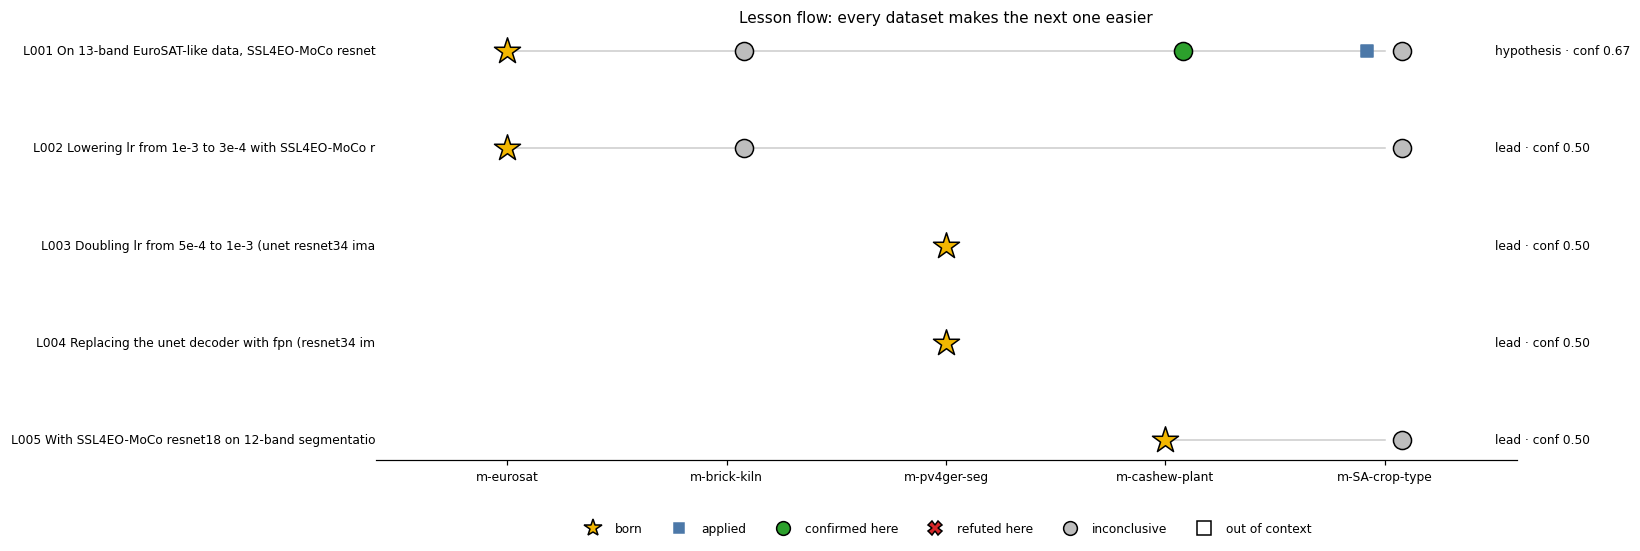
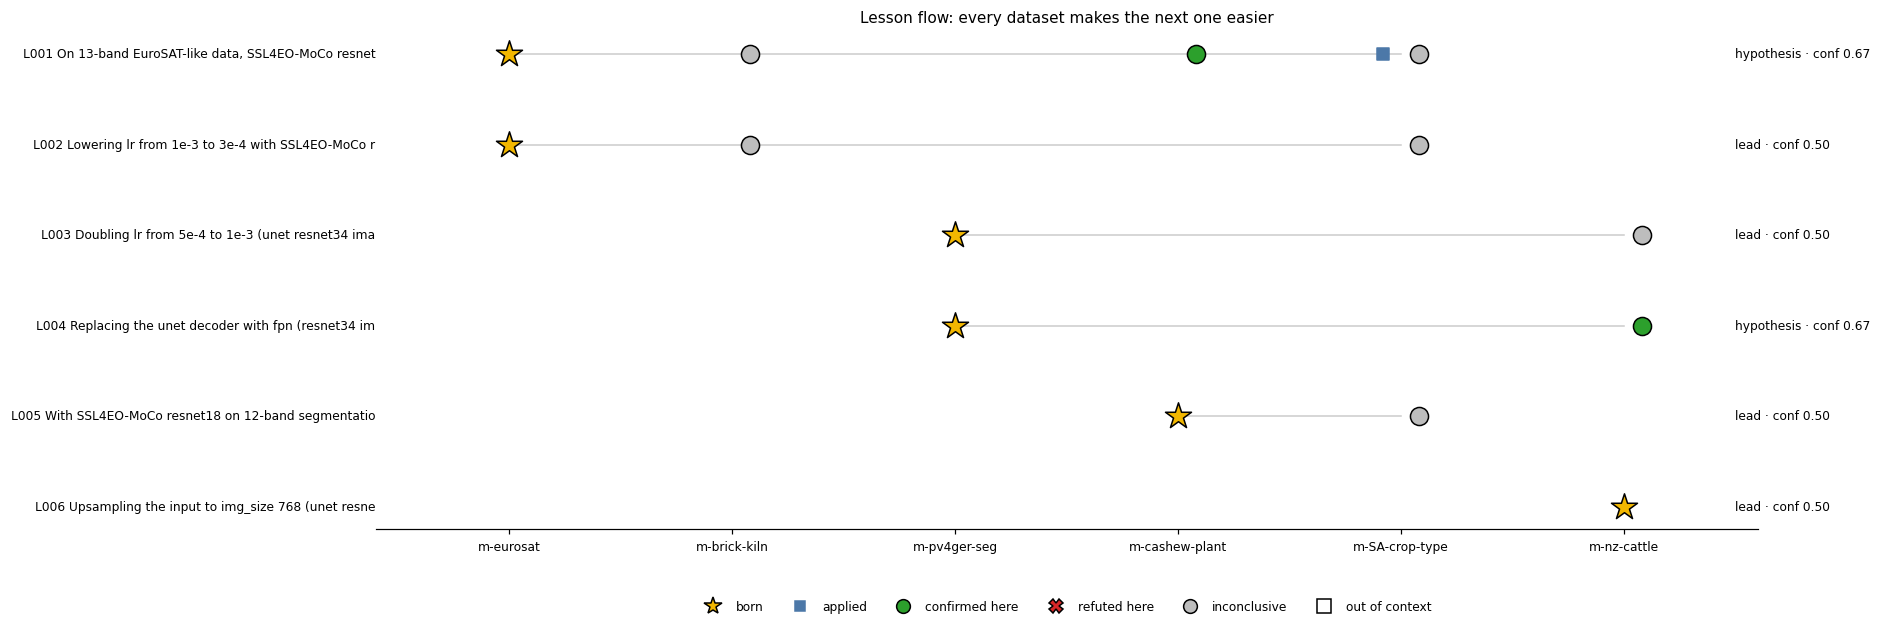
publish: m-nz-cattle (registry, model card, report)

diff --git a/report/dashboard.html b/report/dashboard.html
@@ -3,13 +3,13 @@
 <h1>GoTrain: every dataset makes the next one easier</h1>
 <p class='note'>Generated by <code>python -m gotrain.report</code> from the ledger, vault, sessions, playbook and stats files. Test scores come from the vault (one test evaluation per dataset); intervals are 95% grouped bootstrap intervals from the hash-checked test_stats.npz.</p>
 <h2>Results</h2>
-<table><tr><th>Task</th><th>Model</th><th>Val</th><th>Test (95% interval)</th><th>GEO-Bench reference</th><th>GPU-min L1 / L2</th><th>Tokens</th><th>Lessons born / applied</th><th>Notes</th></tr><tr><td>m-eurosat</td><td>m-eurosat-L2-006 (composite)</td><td>98.90%</td><td>98.60% (97.80%–99.30%, 1000 groups)</td><td>98.00% (not comparable: bands differ (3-channel reference, we use 13); benchmark classification v0.8.5 vs our v1.0)</td><td>40.8 / 6.3</td><td>208,496</td><td>2 / 0</td><td>INC-001 disclosed</td></tr><tr><td>m-brick-kiln</td><td>m-brick-kiln-L2-004 (composite)</td><td>99.30%</td><td>98.60% (97.80%–99.30%, 999 groups)</td><td>98.87% (not comparable: bands differ (3-channel reference, we use 10); benchmark classification v0.8.5 vs our v1.0)</td><td>40.8 / 6.2</td><td>188,252</td><td>0 / 0</td><td></td></tr><tr><td>m-pv4ger-seg</td><td>m-pv4ger-seg-L2-002 (composite)</td><td>0.9556</td><td>0.9505 (0.9418–0.9579, 403 groups)</td><td>0.9408 (roughly comparable: benchmark segmentation v0.4 vs our v1.0)</td><td>40.7 / 7.5</td><td>188,292</td><td>2 / 0</td><td></td></tr><tr><td>m-cashew-plant</td><td>m-cashew-plant-L2-004 (composite)</td><td>0.8729</td><td>0.8729 (0.8709–0.8755, 2 groups)</td><td>0.4873 (not comparable: bands differ (3-channel reference, we use 12); benchmark segmentation v0.4 vs our v1.0; class 0 (&#x27;no data&#x27;) ignored by us, counted by the reference)</td><td>40.6 / 7.2</td><td>203,781</td><td>1 / 0</td><td></td></tr><tr><td>m-SA-crop-type</td><td>—</td><td>—</td><td>not finalized</td><td>0.3041 (not comparable: bands differ (3-channel reference, we use 12); benchmark segmentation v0.4 vs our v1.0; class 0 (&#x27;no data&#x27;) ignored by us, counted by the reference)</td><td>39.7 / 8.6</td><td>199,328</td><td>0 / 1</td><td>INC-002 disclosed</td></tr></table>
+<table><tr><th>Task</th><th>Model</th><th>Val</th><th>Test (95% interval)</th><th>GEO-Bench reference</th><th>GPU-min L1 / L2</th><th>Tokens</th><th>Lessons born / applied</th><th>Notes</th></tr><tr><td>m-eurosat</td><td>m-eurosat-L2-006 (composite)</td><td>98.90%</td><td>98.60% (97.80%–99.30%, 1000 groups)</td><td>98.00% (not comparable: bands differ (3-channel reference, we use 13); benchmark classification v0.8.5 vs our v1.0)</td><td>40.8 / 6.3</td><td>208,496</td><td>2 / 0</td><td>INC-001 disclosed</td></tr><tr><td>m-brick-kiln</td><td>m-brick-kiln-L2-004 (composite)</td><td>99.30%</td><td>98.60% (97.80%–99.30%, 999 groups)</td><td>98.87% (not comparable: bands differ (3-channel reference, we use 10); benchmark classification v0.8.5 vs our v1.0)</td><td>40.8 / 6.2</td><td>188,252</td><td>0 / 0</td><td></td></tr><tr><td>m-pv4ger-seg</td><td>m-pv4ger-seg-L2-002 (composite)</td><td>0.9556</td><td>0.9505 (0.9418–0.9579, 403 groups)</td><td>0.9408 (roughly comparable: benchmark segmentation v0.4 vs our v1.0)</td><td>40.7 / 7.5</td><td>188,292</td><td>2 / 0</td><td></td></tr><tr><td>m-cashew-plant</td><td>m-cashew-plant-L2-004 (composite)</td><td>0.8729</td><td>0.8729 (0.8709–0.8755, 2 groups)</td><td>0.4873 (not comparable: bands differ (3-channel reference, we use 12); benchmark segmentation v0.4 vs our v1.0; class 0 (&#x27;no data&#x27;) ignored by us, counted by the reference)</td><td>40.6 / 7.2</td><td>203,781</td><td>1 / 0</td><td></td></tr><tr><td>m-SA-crop-type</td><td>—</td><td>—</td><td>not finalized</td><td>0.3041 (not comparable: bands differ (3-channel reference, we use 12); benchmark segmentation v0.4 vs our v1.0; class 0 (&#x27;no data&#x27;) ignored by us, counted by the reference)</td><td>39.7 / 8.6</td><td>199,328</td><td>0 / 1</td><td>INC-002 disclosed</td></tr><tr><td>m-nz-cattle</td><td>m-nz-cattle-L2-004 (composite)</td><td>0.8583</td><td>0.8531 (0.8450–0.8615, 63 groups)</td><td>0.8107 (roughly comparable: benchmark segmentation v0.4 vs our v1.0)</td><td>40.8 / 6.7</td><td>249,161</td><td>1 / 0</td><td></td></tr></table>
 <h2>Lesson flow</h2>
 <img src='lesson_flow.png' alt='lesson flow'>
 <h2>With vs without playbook (m-SA-crop-type)</h2>
 <img src='ab_m-SA-crop-type.png'>
 <h2>Level 2</h2>
-<table><tr><th>Task</th><th>Run</th><th>Mechanism</th><th>Members</th><th>Val</th><th>Promoted</th></tr><tr><td>m-eurosat</td><td>m-eurosat-0015</td><td>trained slot</td><td>m-eurosat-0010</td><td>98.80%</td><td>no</td></tr><tr><td>m-eurosat</td><td>m-eurosat-L2-001</td><td>tta</td><td>m-eurosat-0010 +TTA</td><td>98.90%</td><td>no</td></tr><tr><td>m-eurosat</td><td>m-eurosat-L2-002</td><td>tta</td><td>m-eurosat-0008 +TTA</td><td>98.60%</td><td>no</td></tr><tr><td>m-eurosat</td><td>m-eurosat-L2-003</td><td>tta</td><td>m-eurosat-0009 +TTA</td><td>98.70%</td><td>no</td></tr><tr><td>m-eurosat</td><td>m-eurosat-L2-004</td><td>ensemble</td><td>m-eurosat-0010, m-eurosat-0008, m-eurosat-0009</td><td>98.70%</td><td>no</td></tr><tr><td>m-eurosat</td><td>m-eurosat-L2-006</td><td>ensemble</td><td>m-eurosat-0010, m-eurosat-0008, m-eurosat-0009, m-eurosat-0015</td><td>98.90%</td><td>yes</td></tr><tr><td>m-brick-kiln</td><td>m-brick-kiln-0012</td><td>trained slot</td><td>m-brick-kiln-0005</td><td>99.30%</td><td>no</td></tr><tr><td>m-brick-kiln</td><td>m-brick-kiln-L2-001</td><td>tta</td><td>m-brick-kiln-0005 +TTA</td><td>99.20%</td><td>no</td></tr><tr><td>m-brick-kiln</td><td>m-brick-kiln-L2-002</td><td>tta</td><td>m-brick-kiln-0007 +TTA</td><td>99.10%</td><td>no</td></tr><tr><td>m-brick-kiln</td><td>m-brick-kiln-L2-003</td><td>tta</td><td>m-brick-kiln-0008 +TTA</td><td>99.20%</td><td>no</td></tr><tr><td>m-brick-kiln</td><td>m-brick-kiln-L2-004</td><td>ensemble</td><td>m-brick-kiln-0005, m-brick-kiln-0007, m-brick-kiln-0008</td><td>99.30%</td><td>yes</td></tr><tr><td>m-brick-kiln</td><td>m-brick-kiln-L2-006</td><td>ensemble</td><td>m-brick-kiln-0005, m-brick-kiln-0007, m-brick-kiln-0008, m-brick-kiln-0012</td><td>99.30%</td><td>no</td></tr><tr><td>m-pv4ger-seg</td><td>m-pv4ger-seg-0012</td><td>trained slot</td><td>m-pv4ger-seg-0004</td><td>0.9506</td><td>no</td></tr><tr><td>m-pv4ger-seg</td><td>m-pv4ger-seg-L2-001</td><td>tta</td><td>m-pv4ger-seg-0004 +TTA</td><td>0.9552</td><td>no</td></tr><tr><td>m-pv4ger-seg</td><td>m-pv4ger-seg-L2-002</td><td>tta</td><td>m-pv4ger-seg-0002 +TTA</td><td>0.9556</td><td>yes</td></tr><tr><td>m-pv4ger-seg</td><td>m-pv4ger-seg-L2-003</td><td>tta</td><td>m-pv4ger-seg-0005 +TTA</td><td>0.9531</td><td>no</td></tr><tr><td>m-pv4ger-seg</td><td>m-pv4ger-seg-L2-004</td><td>ensemble</td><td>m-pv4ger-seg-0004 +TTA, m-pv4ger-seg-0002 +TTA, m-pv4ger-seg-0005 +TTA</td><td>0.9556</td><td>no</td></tr><tr><td>m-pv4ger-seg</td><td>m-pv4ger-seg-L2-006</td><td>ensemble</td><td>m-pv4ger-seg-0004 +TTA, m-pv4ger-seg-0002 +TTA, m-pv4ger-seg-0005 +TTA, m-pv4ger-seg-0012</td><td>0.9546</td><td>no</td></tr><tr><td>m-cashew-plant</td><td>m-cashew-plant-0012</td><td>trained slot</td><td>m-cashew-plant-0008</td><td>0.8473</td><td>no</td></tr><tr><td>m-cashew-plant</td><td>m-cashew-plant-L2-001</td><td>tta</td><td>m-cashew-plant-0008 +TTA</td><td>0.8730</td><td>no</td></tr><tr><td>m-cashew-plant</td><td>m-cashew-plant-L2-002</td><td>tta</td><td>m-cashew-plant-0005 +TTA</td><td>0.8694</td><td>no</td></tr><tr><td>m-cashew-plant</td><td>m-cashew-plant-L2-003</td><td>tta</td><td>m-cashew-plant-0006 +TTA</td><td>0.8602</td><td>no</td></tr><tr><td>m-cashew-plant</td><td>m-cashew-plant-L2-004</td><td>ensemble</td><td>m-cashew-plant-0008 +TTA, m-cashew-plant-0005 +TTA, m-cashew-plant-0006 +TTA</td><td>0.8729</td><td>yes</td></tr><tr><td>m-cashew-plant</td><td>m-cashew-plant-L2-006</td><td>ensemble</td><td>m-cashew-plant-0008 +TTA, m-cashew-plant-0005 +TTA, m-cashew-plant-0006 +TTA, m-cashew-plant-0012</td><td>0.8726</td><td>no</td></tr><tr><td>m-SA-crop-type</td><td>m-SA-crop-type-0012</td><td>trained slot</td><td>m-SA-crop-type-0007</td><td>0.4002</td><td>no</td></tr><tr><td>m-SA-crop-type</td><td>m-SA-crop-type-L2-001</td><td>tta</td><td>m-SA-crop-type-0007 +TTA</td><td>0.4094</td><td>no</td></tr><tr><td>m-SA-crop-type</td><td>m-SA-crop-type-L2-002</td><td>tta</td><td>m-SA-crop-type-0006 +TTA</td><td>0.3971</td><td>no</td></tr><tr><td>m-SA-crop-type</td><td>m-SA-crop-type-L2-003</td><td>tta</td><td>m-SA-crop-type-0001 +TTA</td><td>0.3891</td><td>yes</td></tr><tr><td>m-SA-crop-type</td><td>m-SA-crop-type-L2-004</td><td>ensemble</td><td>m-SA-crop-type-0007 +TTA, m-SA-crop-type-0006 +TTA, m-SA-crop-type-0001 +TTA</td><td>0.4105</td><td>yes</td></tr><tr><td>m-SA-crop-type</td><td>m-SA-crop-type-L2-006</td><td>ensemble</td><td>m-SA-crop-type-0007 +TTA, m-SA-crop-type-0006 +TTA, m-SA-crop-type-0001 +TTA, m-SA-crop-type-0012</td><td>0.4145</td><td>yes</td></tr></table>
+<table><tr><th>Task</th><th>Run</th><th>Mechanism</th><th>Members</th><th>Val</th><th>Promoted</th></tr><tr><td>m-eurosat</td><td>m-eurosat-0015</td><td>trained slot</td><td>m-eurosat-0010</td><td>98.80%</td><td>no</td></tr><tr><td>m-eurosat</td><td>m-eurosat-L2-001</td><td>tta</td><td>m-eurosat-0010 +TTA</td><td>98.90%</td><td>no</td></tr><tr><td>m-eurosat</td><td>m-eurosat-L2-002</td><td>tta</td><td>m-eurosat-0008 +TTA</td><td>98.60%</td><td>no</td></tr><tr><td>m-eurosat</td><td>m-eurosat-L2-003</td><td>tta</td><td>m-eurosat-0009 +TTA</td><td>98.70%</td><td>no</td></tr><tr><td>m-eurosat</td><td>m-eurosat-L2-004</td><td>ensemble</td><td>m-eurosat-0010, m-eurosat-0008, m-eurosat-0009</td><td>98.70%</td><td>no</td></tr><tr><td>m-eurosat</td><td>m-eurosat-L2-006</td><td>ensemble</td><td>m-eurosat-0010, m-eurosat-0008, m-eurosat-0009, m-eurosat-0015</td><td>98.90%</td><td>yes</td></tr><tr><td>m-brick-kiln</td><td>m-brick-kiln-0012</td><td>trained slot</td><td>m-brick-kiln-0005</td><td>99.30%</td><td>no</td></tr><tr><td>m-brick-kiln</td><td>m-brick-kiln-L2-001</td><td>tta</td><td>m-brick-kiln-0005 +TTA</td><td>99.20%</td><td>no</td></tr><tr><td>m-brick-kiln</td><td>m-brick-kiln-L2-002</td><td>tta</td><td>m-brick-kiln-0007 +TTA</td><td>99.10%</td><td>no</td></tr><tr><td>m-brick-kiln</td><td>m-brick-kiln-L2-003</td><td>tta</td><td>m-brick-kiln-0008 +TTA</td><td>99.20%</td><td>no</td></tr><tr><td>m-brick-kiln</td><td>m-brick-kiln-L2-004</td><td>ensemble</td><td>m-brick-kiln-0005, m-brick-kiln-0007, m-brick-kiln-0008</td><td>99.30%</td><td>yes</td></tr><tr><td>m-brick-kiln</td><td>m-brick-kiln-L2-006</td><td>ensemble</td><td>m-brick-kiln-0005, m-brick-kiln-0007, m-brick-kiln-0008, m-brick-kiln-0012</td><td>99.30%</td><td>no</td></tr><tr><td>m-pv4ger-seg</td><td>m-pv4ger-seg-0012</td><td>trained slot</td><td>m-pv4ger-seg-0004</td><td>0.9506</td><td>no</td></tr><tr><td>m-pv4ger-seg</td><td>m-pv4ger-seg-L2-001</td><td>tta</td><td>m-pv4ger-seg-0004 +TTA</td><td>0.9552</td><td>no</td></tr><tr><td>m-pv4ger-seg</td><td>m-pv4ger-seg-L2-002</td><td>tta</td><td>m-pv4ger-seg-0002 +TTA</td><td>0.9556</td><td>yes</td></tr><tr><td>m-pv4ger-seg</td><td>m-pv4ger-seg-L2-003</td><td>tta</td><td>m-pv4ger-seg-0005 +TTA</td><td>0.9531</td><td>no</td></tr><tr><td>m-pv4ger-seg</td><td>m-pv4ger-seg-L2-004</td><td>ensemble</td><td>m-pv4ger-seg-0004 +TTA, m-pv4ger-seg-0002 +TTA, m-pv4ger-seg-0005 +TTA</td><td>0.9556</td><td>no</td></tr><tr><td>m-pv4ger-seg</td><td>m-pv4ger-seg-L2-006</td><td>ensemble</td><td>m-pv4ger-seg-0004 +TTA, m-pv4ger-seg-0002 +TTA, m-pv4ger-seg-0005 +TTA, m-pv4ger-seg-0012</td><td>0.9546</td><td>no</td></tr><tr><td>m-cashew-plant</td><td>m-cashew-plant-0012</td><td>trained slot</td><td>m-cashew-plant-0008</td><td>0.8473</td><td>no</td></tr><tr><td>m-cashew-plant</td><td>m-cashew-plant-L2-001</td><td>tta</td><td>m-cashew-plant-0008 +TTA</td><td>0.8730</td><td>no</td></tr><tr><td>m-cashew-plant</td><td>m-cashew-plant-L2-002</td><td>tta</td><td>m-cashew-plant-0005 +TTA</td><td>0.8694</td><td>no</td></tr><tr><td>m-cashew-plant</td><td>m-cashew-plant-L2-003</td><td>tta</td><td>m-cashew-plant-0006 +TTA</td><td>0.8602</td><td>no</td></tr><tr><td>m-cashew-plant</td><td>m-cashew-plant-L2-004</td><td>ensemble</td><td>m-cashew-plant-0008 +TTA, m-cashew-plant-0005 +TTA, m-cashew-plant-0006 +TTA</td><td>0.8729</td><td>yes</td></tr><tr><td>m-cashew-plant</td><td>m-cashew-plant-L2-006</td><td>ensemble</td><td>m-cashew-plant-0008 +TTA, m-cashew-plant-0005 +TTA, m-cashew-plant-0006 +TTA, m-cashew-plant-0012</td><td>0.8726</td><td>no</td></tr><tr><td>m-SA-crop-type</td><td>m-SA-crop-type-0012</td><td>trained slot</td><td>m-SA-crop-type-0007</td><td>0.4002</td><td>no</td></tr><tr><td>m-SA-crop-type</td><td>m-SA-crop-type-L2-001</td><td>tta</td><td>m-SA-crop-type-0007 +TTA</td><td>0.4094</td><td>no</td></tr><tr><td>m-SA-crop-type</td><td>m-SA-crop-type-L2-002</td><td>tta</td><td>m-SA-crop-type-0006 +TTA</td><td>0.3971</td><td>no</td></tr><tr><td>m-SA-crop-type</td><td>m-SA-crop-type-L2-003</td><td>tta</td><td>m-SA-crop-type-0001 +TTA</td><td>0.3891</td><td>yes</td></tr><tr><td>m-SA-crop-type</td><td>m-SA-crop-type-L2-004</td><td>ensemble</td><td>m-SA-crop-type-0007 +TTA, m-SA-crop-type-0006 +TTA, m-SA-crop-type-0001 +TTA</td><td>0.4105</td><td>yes</td></tr><tr><td>m-SA-crop-type</td><td>m-SA-crop-type-L2-006</td><td>ensemble</td><td>m-SA-crop-type-0007 +TTA, m-SA-crop-type-0006 +TTA, m-SA-crop-type-0001 +TTA, m-SA-crop-type-0012</td><td>0.4145</td><td>yes</td></tr><tr><td>m-nz-cattle</td><td>m-nz-cattle-0012</td><td>trained slot</td><td>m-nz-cattle-0006</td><td>0.8556</td><td>no</td></tr><tr><td>m-nz-cattle</td><td>m-nz-cattle-L2-001</td><td>tta</td><td>m-nz-cattle-0006 +TTA</td><td>0.8579</td><td>no</td></tr><tr><td>m-nz-cattle</td><td>m-nz-cattle-L2-002</td><td>tta</td><td>m-nz-cattle-0005 +TTA</td><td>0.8568</td><td>no</td></tr><tr><td>m-nz-cattle</td><td>m-nz-cattle-L2-003</td><td>tta</td><td>m-nz-cattle-0001 +TTA</td><td>0.8558</td><td>yes</td></tr><tr><td>m-nz-cattle</td><td>m-nz-cattle-L2-004</td><td>ensemble</td><td>m-nz-cattle-0006 +TTA, m-nz-cattle-0005 +TTA, m-nz-cattle-0001 +TTA</td><td>0.8583</td><td>yes</td></tr><tr><td>m-nz-cattle</td><td>m-nz-cattle-L2-006</td><td>ensemble</td><td>m-nz-cattle-0006 +TTA, m-nz-cattle-0005 +TTA, m-nz-cattle-0001 +TTA, m-nz-cattle-0012</td><td>0.8581</td><td>no</td></tr></table>
 <h2>Sentinel audit</h2>
 <p>No flags.</p>
 <h2>Run trees</h2>
@@ -18,4 +18,5 @@
 <img src='trees/m-pv4ger-seg__main__chain.png' alt='m-pv4ger-seg__main__chain'>
 <img src='trees/m-cashew-plant__main__chain.png' alt='m-cashew-plant__main__chain'>
 <img src='trees/m-SA-crop-type__main__chain.png' alt='m-SA-crop-type__main__chain'>
+<img src='trees/m-nz-cattle__main__chain.png' alt='m-nz-cattle__main__chain'>
 </body></html>

diff --git a/workspace/model_cards/m-nz-cattle.md b/workspace/model_cards/m-nz-cattle.md
@@ -1,0 +1,32 @@
+# Model card: m-nz-cattle:v1 (m-nz-cattle)
+
+Tag **production** · registered 2026-11-01T12:22:36Z · written by `gotrain.model_card` from the ledger, vault and session records (no hand-written numbers).
+
+## Task
+
+- Type: segmentation; scope: aerial-rgb, rgb, <=1m.
+- Input bands: R, G, B
+- Classes: no cattle, cattle
+- Data note: Masks are radius-6 px boxes around point labels. About half the images have a shifted twin; 50 val locations also occur in train (GEO-Bench split), grouped by location in the bootstrap.
+
+## Model
+
+- Run: `m-nz-cattle-L2-004` (composite, ensemble); checkpoint `sha256:21182aee4262fceeb683dbbbfee9685b6541902db71e4cbe08f74db4d5020b80`.
+- Members: `m-nz-cattle-0006` + TTA (sha256:5e5f3dba320875501a64f56f7b1355e308d8b25a668e051bb1678f17b480a6d2); `m-nz-cattle-0005` + TTA (sha256:e63dd115c7e66e2aa9b24f8d888f378e548ee2bbeba5846736db3c599ef81f2e); `m-nz-cattle-0001` + TTA (sha256:85694f11f73f76be4e8f340158faa81d71ad3da25cfc5b206d9c818a25d4e9bc)
+- Derived from: `m-nz-cattle-0006`, `m-nz-cattle-0005`, `m-nz-cattle-0001`.
+
+## Scores
+
+- Validation miou: **0.8583** (val_stats.npz).
+- Test miou: **0.8531**, 95% interval 0.8450 to 0.8615 (63 groups, 10000 grouped bootstrap resamples, seed 0); one test evaluation, without TTA, finalized 2026-11-01T12:20:51Z.
+- Vault entry `sha256:a50d655f918980c777f009a11c68343656a8892a17ee35d52269d6dbfad9eb7a`; test_stats.npz `sha256:ccaa19c017d5d1725fcb6bd0faeacf76132a8dc9e0981718d0f369331a609f40`.
+- GEO-Bench reference: 0.8107 (ResNet50-U-Net-timm, 12 seeds, 1.00x train). **roughly comparable: benchmark segmentation v0.4 vs our v1.0**.
+
+## How it was found
+
+- Session `m-nz-cattle__main__chain` (arm main), LLM `eu.anthropic.claude-sonnet-5-5`, B = 60.0 GPU-min (R = 6.0), code tree `95b096ec568d3f51e12153f8054c8ce5d379600d`, prompt `sha256:dcdb7392d5ca2d57d65e6fb7a0e3482b73447ae28f8a0648290eb0ed9191a4b1`.
+- GPU minutes charged: Level 1 40.8, Level 2 6.7; runs: 13; seed sigma 0.0005; 249,161 Bedrock tokens.
+- Playbook at the start: applied none; buckets {'apply': 0, 'other_context': 0, 'to_test': 2, 'avoid': 0, 'hidden': 3}.
+- Lesson tests: L003 inconclusive (z -1.87); L004 confirm (z +4.11).
+- Lessons written here (z in the lesson's own direction):
+  - L006 (lead, z +1.09): Upsampling the input to img_size 768 (unet resnet18 imagenet) gave a marginal gain in val miou, about +0.001, with no extra time cost under the cap. It is a weak lead for tiny-object aerial imagery. Test it again before relying on it.

diff --git a/workspace/model_cards/m-nz-cattle__v1.md b/workspace/model_cards/m-nz-cattle__v1.md
@@ -1,0 +1,32 @@
+# Model card: m-nz-cattle:v1 (m-nz-cattle)
+
+Tag **production** · registered 2026-11-01T12:22:36Z · written by `gotrain.model_card` from the ledger, vault and session records (no hand-written numbers).
+
+## Task
+
+- Type: segmentation; scope: aerial-rgb, rgb, <=1m.
+- Input bands: R, G, B
+- Classes: no cattle, cattle
+- Data note: Masks are radius-6 px boxes around point labels. About half the images have a shifted twin; 50 val locations also occur in train (GEO-Bench split), grouped by location in the bootstrap.
+
+## Model
+
+- Run: `m-nz-cattle-L2-004` (composite, ensemble); checkpoint `sha256:21182aee4262fceeb683dbbbfee9685b6541902db71e4cbe08f74db4d5020b80`.
+- Members: `m-nz-cattle-0006` + TTA (sha256:5e5f3dba320875501a64f56f7b1355e308d8b25a668e051bb1678f17b480a6d2); `m-nz-cattle-0005` + TTA (sha256:e63dd115c7e66e2aa9b24f8d888f378e548ee2bbeba5846736db3c599ef81f2e); `m-nz-cattle-0001` + TTA (sha256:85694f11f73f76be4e8f340158faa81d71ad3da25cfc5b206d9c818a25d4e9bc)
+- Derived from: `m-nz-cattle-0006`, `m-nz-cattle-0005`, `m-nz-cattle-0001`.
+
+## Scores
+
+- Validation miou: **0.8583** (val_stats.npz).
+- Test miou: **0.8531**, 95% interval 0.8450 to 0.8615 (63 groups, 10000 grouped bootstrap resamples, seed 0); one test evaluation, without TTA, finalized 2026-11-01T12:20:51Z.
+- Vault entry `sha256:a50d655f918980c777f009a11c68343656a8892a17ee35d52269d6dbfad9eb7a`; test_stats.npz `sha256:ccaa19c017d5d1725fcb6bd0faeacf76132a8dc9e0981718d0f369331a609f40`.
+- GEO-Bench reference: 0.8107 (ResNet50-U-Net-timm, 12 seeds, 1.00x train). **roughly comparable: benchmark segmentation v0.4 vs our v1.0**.
+
+## How it was found
+
+- Session `m-nz-cattle__main__chain` (arm main), LLM `eu.anthropic.claude-sonnet-5-5`, B = 60.0 GPU-min (R = 6.0), code tree `95b096ec568d3f51e12153f8054c8ce5d379600d`, prompt `sha256:dcdb7392d5ca2d57d65e6fb7a0e3482b73447ae28f8a0648290eb0ed9191a4b1`.
+- GPU minutes charged: Level 1 40.8, Level 2 6.7; runs: 13; seed sigma 0.0005; 249,161 Bedrock tokens.
+- Playbook at the start: applied none; buckets {'apply': 0, 'other_context': 0, 'to_test': 2, 'avoid': 0, 'hidden': 3}.
+- Lesson tests: L003 inconclusive (z -1.87); L004 confirm (z +4.11).
+- Lessons written here (z in the lesson's own direction):
+  - L006 (lead, z +1.09): Upsampling the input to img_size 768 (unet resnet18 imagenet) gave a marginal gain in val miou, about +0.001, with no extra time cost under the cap. It is a weak lead for tiny-object aerial imagery. Test it again before relying on it.

diff --git a/workspace/model_cards/m-pv4ger-seg.md b/workspace/model_cards/m-pv4ger-seg.md
@@ -28,4 +28,4 @@ Tag **production** · registered 2026-11-01T06:35:52Z · written by `gotrain.mod
 - Playbook at the start: applied none; buckets {'apply': 0, 'other_context': 0, 'to_test': 0, 'avoid': 0, 'hidden': 2}.
 - Lessons written here (z in the lesson's own direction):
   - L003 (lead, z +1.31): Doubling lr from 5e-4 to 1e-3 (unet resnet34 imagenet, ~10 epochs, short budget) slightly lowered val miou; faster convergence did not materialize, probably because the higher lr is noisier. Keep lr near 5e-4 for fine-tuning; a weak lead only.
-  - L004 (lead, z +1.22): Replacing the unet decoder with fpn (resnet34 imagenet) slightly lowered val miou, and it did not save wall time within the cap. Prefer unet for high-resolution aerial segmentation where fine boundaries matter; a weak lead only.
+  - L004 (hypothesis, z +1.22): Replacing the unet decoder with fpn (resnet34 imagenet) slightly lowered val miou, and it did not save wall time within the cap. Prefer unet for high-resolution aerial segmentation where fine boundaries matter; a weak lead only.

diff --git a/workspace/model_cards/m-pv4ger-seg__v1.md b/workspace/model_cards/m-pv4ger-seg__v1.md
@@ -28,4 +28,4 @@ Tag **production** · registered 2026-11-01T06:35:52Z · written by `gotrain.mod
 - Playbook at the start: applied none; buckets {'apply': 0, 'other_context': 0, 'to_test': 0, 'avoid': 0, 'hidden': 2}.
 - Lessons written here (z in the lesson's own direction):
   - L003 (lead, z +1.31): Doubling lr from 5e-4 to 1e-3 (unet resnet34 imagenet, ~10 epochs, short budget) slightly lowered val miou; faster convergence did not materialize, probably because the higher lr is noisier. Keep lr near 5e-4 for fine-tuning; a weak lead only.
-  - L004 (lead, z +1.22): Replacing the unet decoder with fpn (resnet34 imagenet) slightly lowered val miou, and it did not save wall time within the cap. Prefer unet for high-resolution aerial segmentation where fine boundaries matter; a weak lead only.
+  - L004 (hypothesis, z +1.22): Replacing the unet decoder with fpn (resnet34 imagenet) slightly lowered val miou, and it did not save wall time within the cap. Prefer unet for high-resolution aerial segmentation where fine boundaries matter; a weak lead only.

diff --git a/report/level2.md b/report/level2.md
@@ -30,3 +30,9 @@
 | m-SA-crop-type | m-SA-crop-type-L2-003 | tta | m-SA-crop-type-0001 +TTA | 0.3891 | yes |
 | m-SA-crop-type | m-SA-crop-type-L2-004 | ensemble | m-SA-crop-type-0007 +TTA, m-SA-crop-type-0006 +TTA, m-SA-crop-type-0001 +TTA | 0.4105 | yes |
 | m-SA-crop-type | m-SA-crop-type-L2-006 | ensemble | m-SA-crop-type-0007 +TTA, m-SA-crop-type-0006 +TTA, m-SA-crop-type-0001 +TTA, m-SA-crop-type-0012 | 0.4145 | yes |
+| m-nz-cattle | m-nz-cattle-0012 | trained slot | m-nz-cattle-0006 | 0.8556 | no |
+| m-nz-cattle | m-nz-cattle-L2-001 | tta | m-nz-cattle-0006 +TTA | 0.8579 | no |
+| m-nz-cattle | m-nz-cattle-L2-002 | tta | m-nz-cattle-0005 +TTA | 0.8568 | no |
+| m-nz-cattle | m-nz-cattle-L2-003 | tta | m-nz-cattle-0001 +TTA | 0.8558 | yes |
+| m-nz-cattle | m-nz-cattle-L2-004 | ensemble | m-nz-cattle-0006 +TTA, m-nz-cattle-0005 +TTA, m-nz-cattle-0001 +TTA | 0.8583 | yes |
+| m-nz-cattle | m-nz-cattle-L2-006 | ensemble | m-nz-cattle-0006 +TTA, m-nz-cattle-0005 +TTA, m-nz-cattle-0001 +TTA, m-nz-cattle-0012 | 0.8581 | no |

diff --git a/report/results.md b/report/results.md
@@ -5,3 +5,4 @@
 | m-pv4ger-seg | m-pv4ger-seg-L2-002 (composite) | 0.9556 | 0.9505 (0.9418–0.9579, 403 groups) | 0.9408 (roughly comparable: benchmark segmentation v0.4 vs our v1.0) | 40.7 / 7.5 | 188,292 | 2 / 0 |  |
 | m-cashew-plant | m-cashew-plant-L2-004 (composite) | 0.8729 | 0.8729 (0.8709–0.8755, 2 groups) | 0.4873 (not comparable: bands differ (3-channel reference, we use 12); benchmark segmentation v0.4 vs our v1.0; class 0 ('no data') ignored by us, counted by the reference) | 40.6 / 7.2 | 203,781 | 1 / 0 |  |
 | m-SA-crop-type | — | — | not finalized | 0.3041 (not comparable: bands differ (3-channel reference, we use 12); benchmark segmentation v0.4 vs our v1.0; class 0 ('no data') ignored by us, counted by the reference) | 39.7 / 8.6 | 199,328 | 0 / 1 | INC-002 disclosed |
+| m-nz-cattle | m-nz-cattle-L2-004 (composite) | 0.8583 | 0.8531 (0.8450–0.8615, 63 groups) | 0.8107 (roughly comparable: benchmark segmentation v0.4 vs our v1.0) | 40.8 / 6.7 | 249,161 | 1 / 0 |  |
